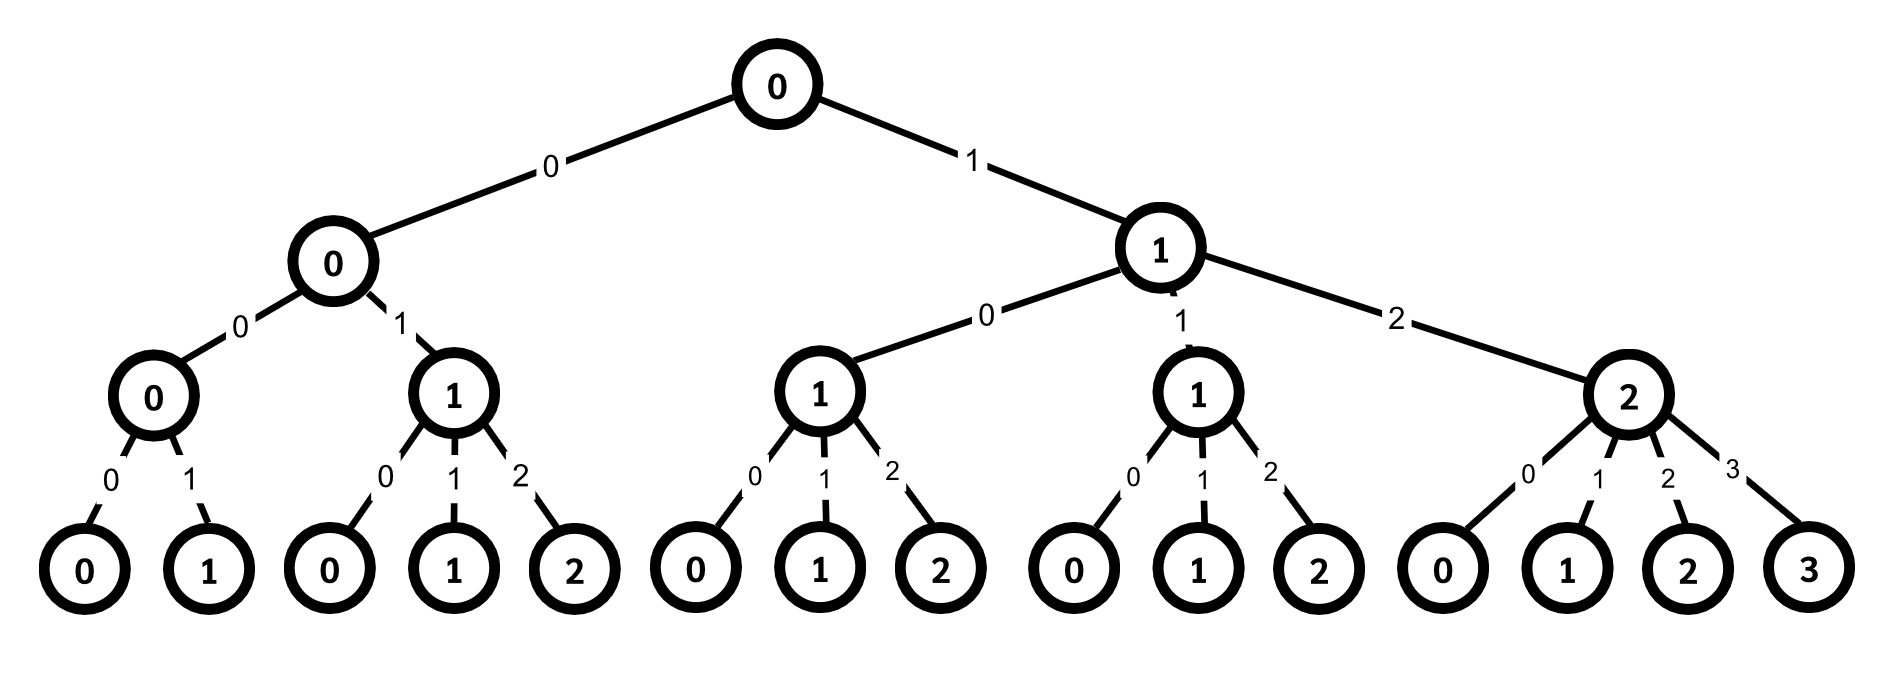
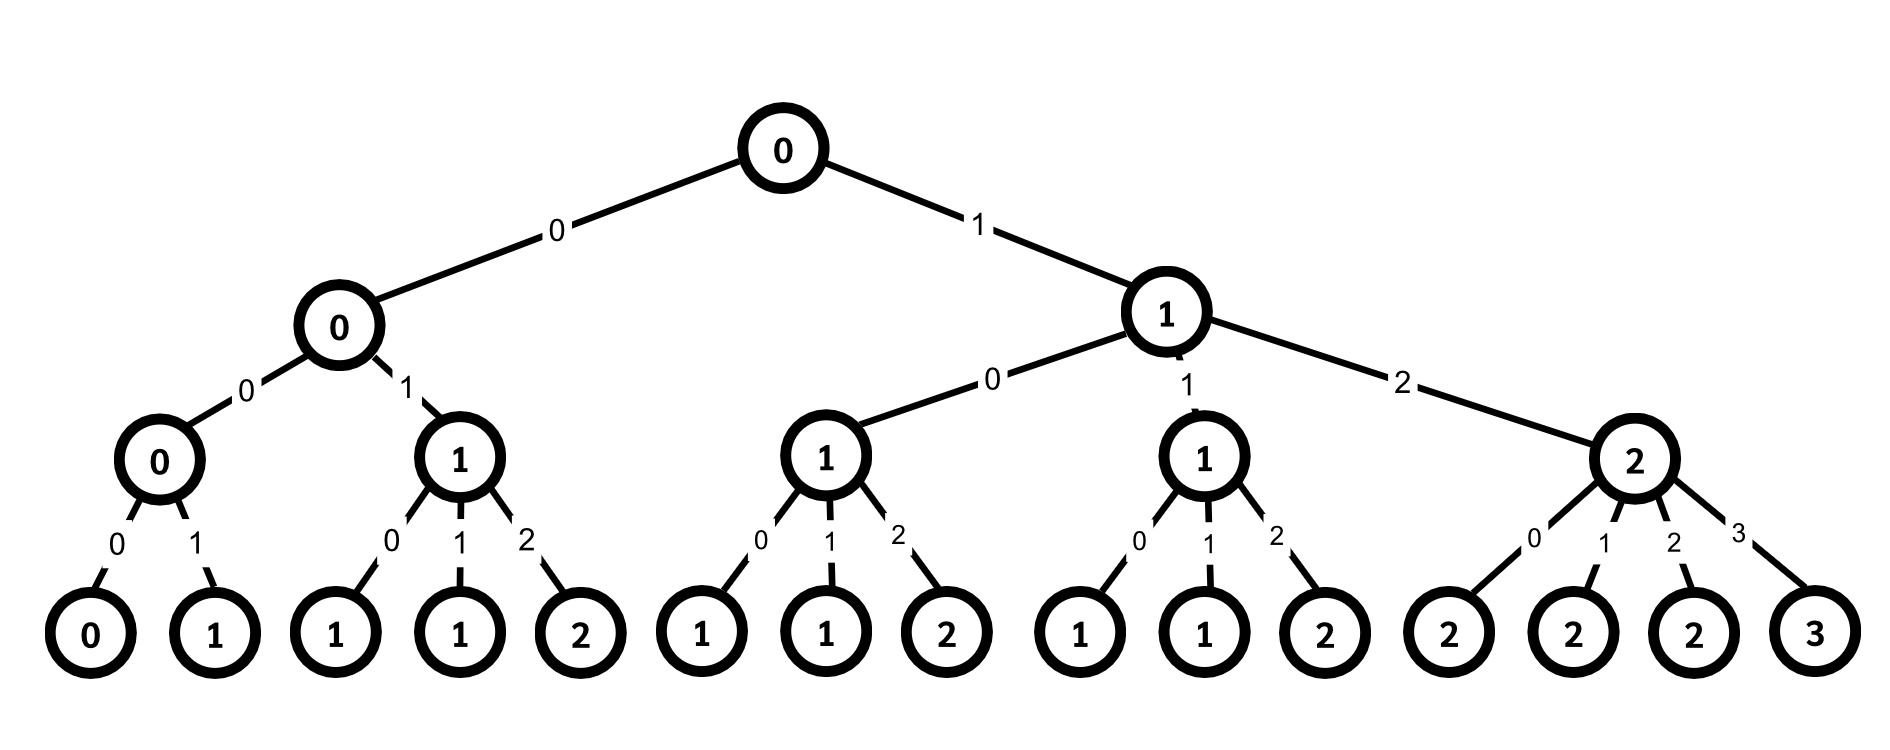
Finalize elephant.md

diff --git a/problem/elephant.md b/problem/elephant.md
@@ -128,12 +128,10 @@ for (int i = 1;i < n;i++) { // start from 1
 ```cpp
 vector<int> a(n, 0);
 int k = 0;
-// start from i = 0, idx = 0
 void recur(int i,int idx){
-    if(i == n-1){
-        // base case
+    if(i == n-1){  // base case
         /*
-            map 'K' to 'a' somehow (up to you)
+            map (k) to (a) somehow
         */
         k++;
         return;
@@ -147,19 +145,22 @@ void recur(int i,int idx){
     a[i+1] = idx+1;
     recur(i+1, idx+1)
 }
+...
+// start from i = 0, idx = 0
+recur(0, 0);
 ```
 
 ## Full Solution
 
-สังเกตว่าหากเราสามารถจำลองการสร้าง Recursion Tree ได้ไว ๆ เราก็จะสามารถ map `a` ไปเป็น $K$ และ map $K$ กลับมาหา `a` ได้
+สังเกตว่าหากเราสามารถจำลองการสร้าง Recursion Tree ได้ไว ๆ เราก็จะสามารถแปลง $a$ ไปเป็น $K$ และแปลง $K$ กลับมาหา $a$ ได้
 
 ### เดินบน Recursion Tree ให้ไวขึ้น
 
-หากเราสามารถรู้จำนวนวิธีที่เกิดขึ้นได้จาก child ของแต่ละโหนด Recursion Tree เราก็ไม่จำเป็นต้องเรียก Recursive Function ลงไปจริง ๆ แต่เราสามารถใช้จำนวนวิธี (จำนวน leaf) ใน subtree ของ child ตัวนั้น ๆ ในการประกอบการคำนวณค่า $K$ ได้เลย ทำให้สามารถ map `a` เป็น $K$ ได้ภายในเวลา $O(N)$ หรือ $O(N^2)$ 
+หากเราสามารถรู้จำนวนวิธีที่เกิดขึ้นได้จาก child ของแต่ละโหนด Recursion Tree เราก็ไม่จำเป็นต้องเรียก Recursive Function ลงไปจริง ๆ แต่เราสามารถใช้จำนวนวิธี (จำนวน leaf) ใน subtree ของ child ตัวนั้น ๆ ในการประกอบการคำนวณค่า $K$ ได้เลย ทำให้สามารถแปลง $a$ เป็น $K$ ได้ภายในเวลา $O(N)$ หรือ $O(N^2)$ 
 
 ![Walk On Tree](/media/elephant/walkonrecurtree.gif)
 
-เรายังสามารถใช้วิธีที่คล้าย ๆ กันในการ map $K$ กลับไปยัง `a` ได้อีกด้วย
+เรายังสามารถใช้วิธีที่คล้าย ๆ กันในการแปลง $K$ กลับไปยัง $a$ ได้อีกด้วย
 
 ![Walk On Tree](/media/elephant/walkonrecurtree2.gif)
 
@@ -175,7 +176,120 @@ Base Case
 - $dp[N-1][j] = 1$ สำหรับ $j = 0, 1, 2, \ldots, N-1$ 
 
 Recurrence 
-- $dp[i][j] = j \times dp[i+1][j] + dp[i+1][j+1]$ 
+- $dp[i][j] = (j+1) \times dp[i+1][j] + dp[i+1][j+1]$ 
 - สำหรับ $i = 0, 1, 2, \ldots, N-2$
 
- 🚧 *The following section is still under construction*  🚧
+ซึ่งในส่วนของ Recurrence เราจะมอง $(i, j)$ เป็นโหนดบน Recursion Tree ที่มี children ไล่จากซ้าบไปขวา ได้แก่
+
+- $(i+1,j)$ จำนวน $j+1$ โหนด
+- $(i+1,j+1)$ จำนวน $1$ โหนด
+
+โดยเราจะใช้ข้อมูลเหล่านี้ในการ map ค่า $K$ เข้ากับลำดับ $a$
+
+### แปลง $a$ เป็น $K$
+
+หลังจากคำนวณ $a$ และ $dp$ แล้ว เราจะไล่ตั้งแต่ $i = 0, 1, 2, \ldots, N-2$ โดยสำหรับแต่ละ $(i, j)$ เราจะแบ่งการเดินเป็น 2 กรณี ได้แก่
+
+1. เดินไป $(i+1,j)$ ซึ่งคือกรณีที่ `idx` มีค่าเท่าเดิม ตาม [Algorithm 1](#algorithm-1)
+2. เดินไป $(i+1,j+1)$ ซึ่งคือกรณีที่ `idx` มีค่าเพิ่มขึ้น 1 ตาม [Algorithm 1](#algorithm-1)
+
+โดยการคำนวณค่า $K$ ที่เพิ่มขึ้นมาในแต่ละ $i$ จะเท่ากับ $$a[i+1] \times dp[i+1][j]$$
+
+![Walk On Tree](/media/elephant/walkonrecurtree.gif)
+
+
+### แปลง $K$ กลับเป็น $a$
+
+หลังจากคำนวณ $dp$ แล้ว เราจะไล่ตั้งแต่ $i = 0, 1, 2, \ldots, N-2$ โดยสำหรับแต่ละ $i$ เราจะแบ่งการเดินเป็น 2 กรณี ได้แก่
+
+1. เดินไป $(i+1,j)$ ซึ่งคือกรณีที่ `idx` มีค่าเท่าเดิม ตาม [Algorithm 1](#algorithm-1)
+2. เดินไป $(i+1,j+1)$ ซึ่งคือกรณีที่ `idx` มีค่าเพิ่มขึ้น 1 ตาม [Algorithm 1](#algorithm-1)
+
+สำหรับแต่ละ $i$ เราจะใช้ค่า $K$ ในการตัดสินใจว่าค่า $a$ ตัวถัดไปจะอยู่ในกรณีใด อิงจากสูตรการคำนวณค่า $K$ สำหรับแต่ละ $i$
+
+1. หาก $K < (j+1) \times dp[i+1][j]$ หมายความว่าจะไม่มีการขึ้น `idx` ใหม่ใน $a[i+1]$ อย่างแน่นอน 
+2. ไม่เช่นนั้น จะได้ว่ามีการขึ้น `idx` ใหม่บน $a[i+1]$
+
+![Walk On Tree](/media/elephant/walkonrecurtree2.gif)
+
+โดยในการ Implement จริง เราจะดักกรณีที่ 2 ไว้ก่อน หรือก็คือตรวจสอบว่า $K \geq (j+1) \times dp[i+1][j]$ หรือไม่ก่อน แล้วจึงค่อยไปหา $a[i+1]$ สำหรับกรณีที่ 1
+
+## Implementation
+
+### Encode :
+
+```cpp
+long long encode(int N) {
+    int n = N;
+    vector<vector<long long>> dp(n + 1, vector<long long>(n + 1, 0ll));
+    for (int i = 0;i < n;i++) {
+        dp[n - 1][i] = 1;
+    }
+    for (int i = n - 2;i >= 0;i--) {
+        for (int j = 0;j <= i;j++) {
+            dp[i][j] = dp[i + 1][j] * (j + 1) + dp[i + 1][j + 1];
+        }
+    }
+    long long K = 0;
+    int idx = 0;
+    vector<int> a(n, 0);
+    for (int i = 1;i < n;i++) {
+        bool ch = 0;
+        for (int j = 0;j < i;j++) {
+            if (same_group(i, j)) {
+                a[i] = a[j];
+                ch = 1;
+                K += dp[i][idx] * a[i];
+                break;
+            }
+        }
+        if (!ch) {
+            a[i] = idx + 1;
+            K += dp[i][idx] * a[i];
+            idx++;
+        }
+    }
+    return K;
+}
+```
+
+Time Complexity : $O(N^2)$
+
+Space Complexity : $O(N^2)$
+
+
+### Decode :
+
+```cpp
+vector<int> decode(int N, long long K) {
+    int n = N;
+    vector<vector<long long>> dp(n + 1, vector<long long>(n + 1, 0ll));
+    for (int i = 0;i < n;i++) {
+        dp[n - 1][i] = 1;
+    }
+    for (int i = n - 2;i >= 0;i--) {
+        for (int j = 0;j <= i;j++) {
+            dp[i][j] = dp[i + 1][j] * (j + 1) + dp[i + 1][j + 1];
+        }
+    }
+    vector<int> a(n, 0);
+    int idx = 0;
+    for (int i = 0;i < n - 1;i++) {
+        if (K >= (idx + 1) * dp[i + 1][idx]) {
+            K -= (idx + 1) * dp[i + 1][idx];
+            a[i + 1] = ++idx;
+        }
+        else {
+            while (K >= dp[i + 1][idx]) {
+                K -= dp[i + 1][idx];
+                a[i + 1]++;
+            }
+        }
+    }
+    return a;
+}
+```
+
+Time Complexity : $O(N^2)$
+
+Space Complexity : $O(N^2)$

diff --git a/readme.md b/readme.md
@@ -9,7 +9,7 @@
 ### Day 1
 - [phimai (WIP 🔨)](problem/phimai.md)
 - [bakshin (WIP 🔨)](problem/bakshin.md)
-- [elephant (WIP 🔨)](problem/elephant.md)
+- [elephant](problem/elephant.md)
 
 ### Day 2
 - [cat (WIP 🔨)](problem/cat.md)
